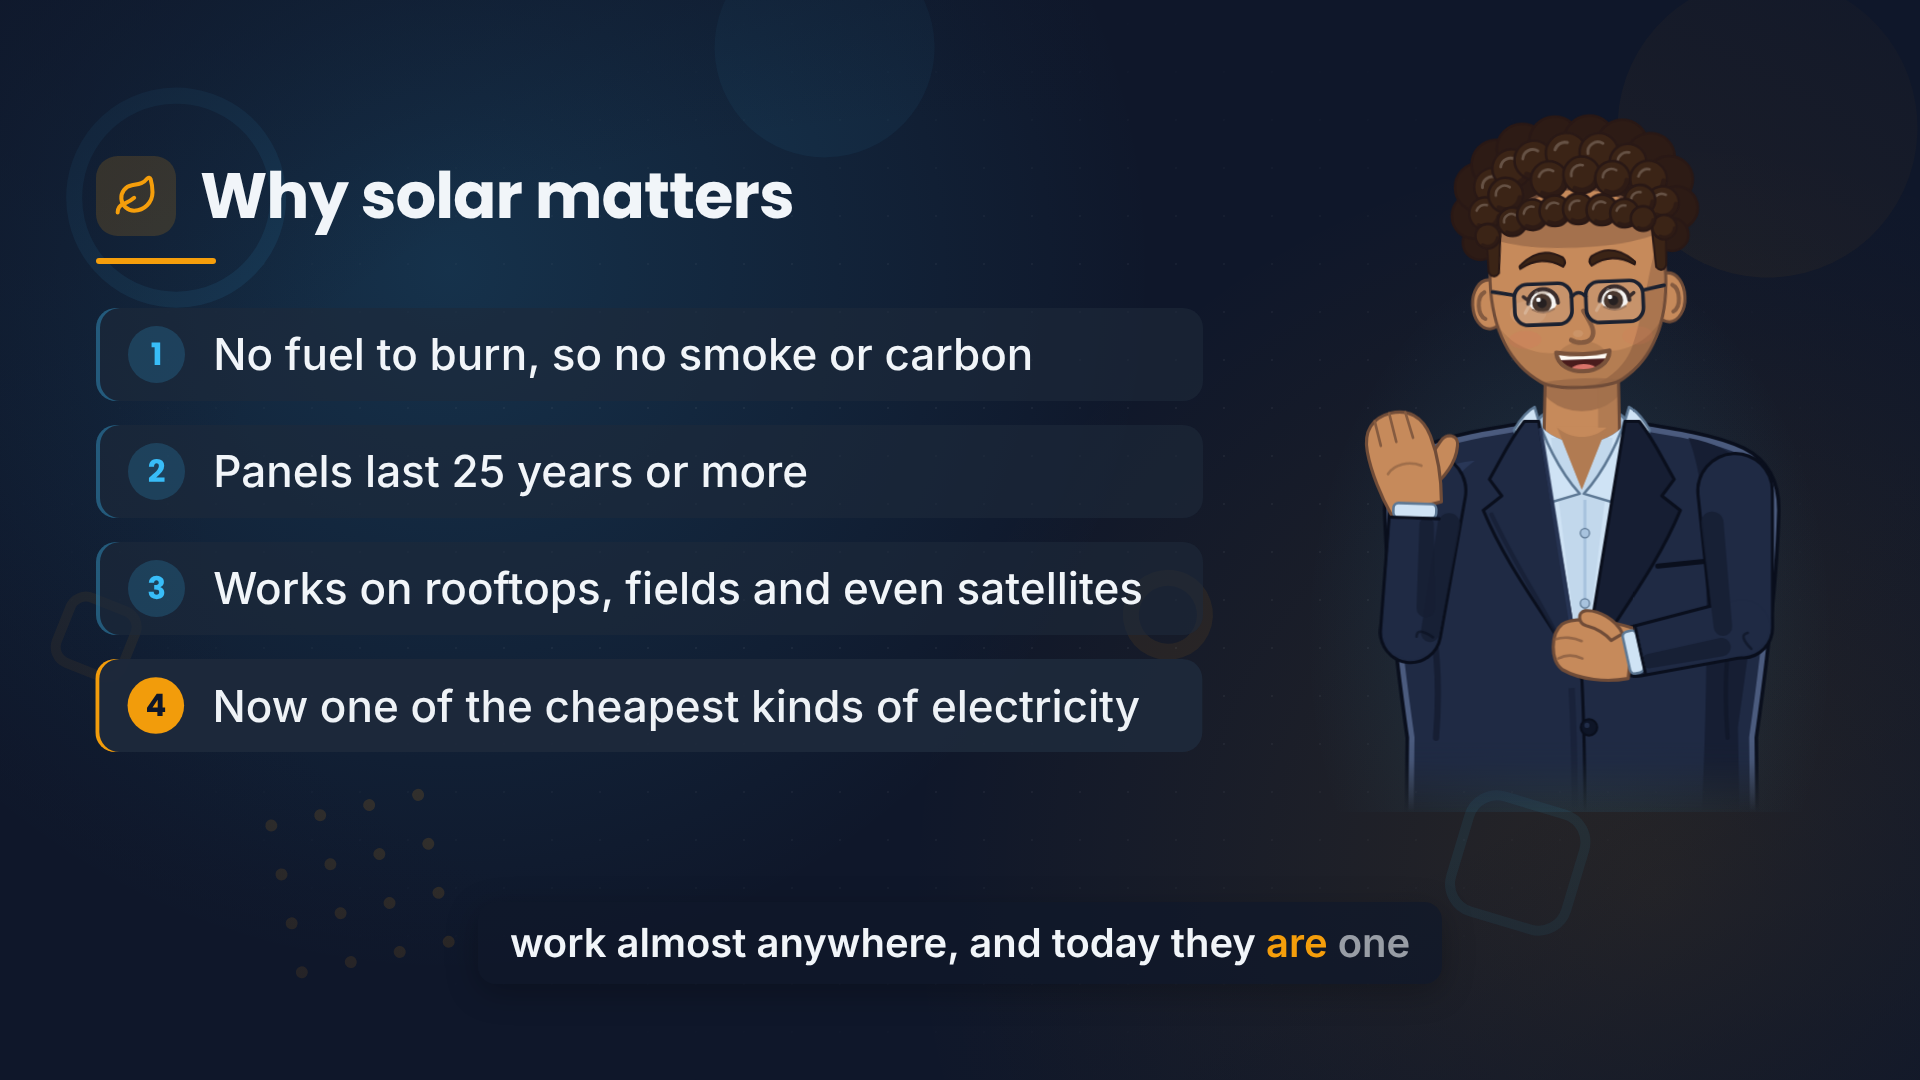
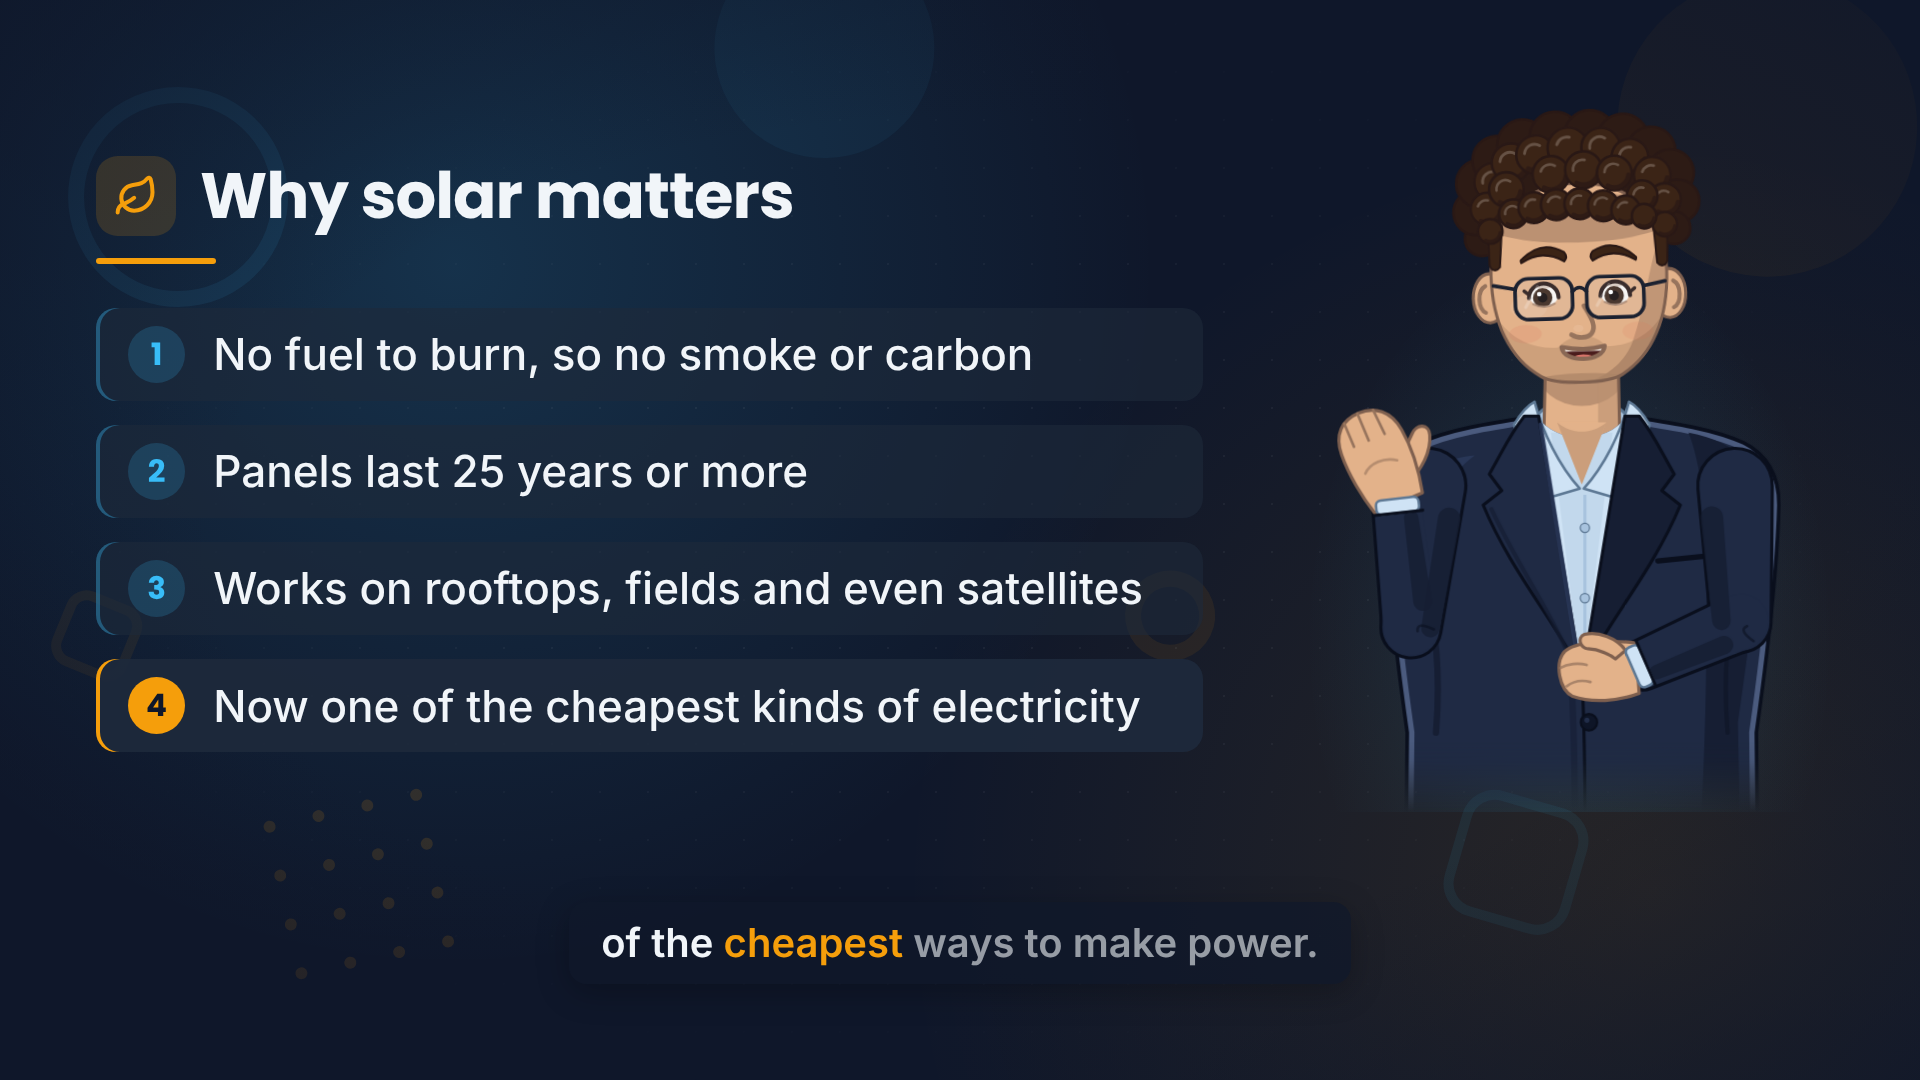
style: lighter presenter skin tone (owner request)
Claude-Session: https://claude.ai/code/session_01Tz5zWaGgMzak1Zwa8mwzTk

diff --git a/templates/src/presenter/look.ts b/templates/src/presenter/look.ts
@@ -6,8 +6,8 @@ import type { PresenterOutfit } from "../schema";
  * No orange in his clothes: orange stays reserved for on-screen highlights.
  */
 export const LOOK = {
-  /** Warm medium brown skin. */
-  skinTone: "#C68A5B",
+  /** Light warm tan skin (owner asked for a lighter tone). */
+  skinTone: "#E3B28A",
   /** Dark brown curly hair. */
   hairColor: "#3B2416",
   /** Iris colour. */
